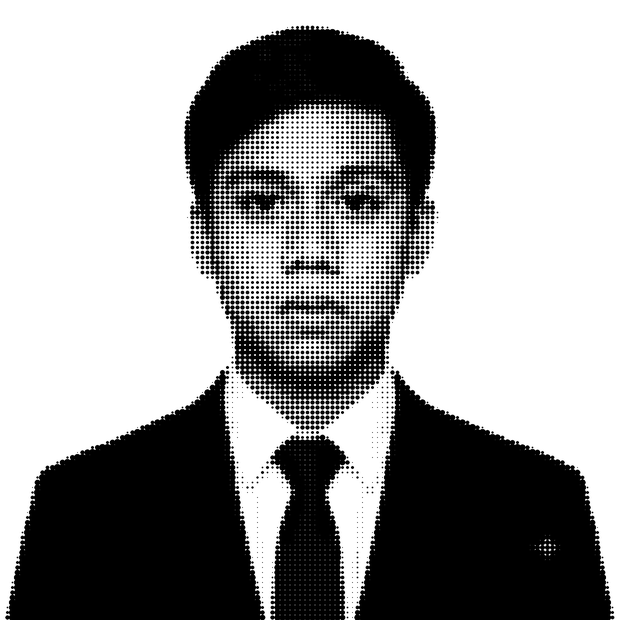
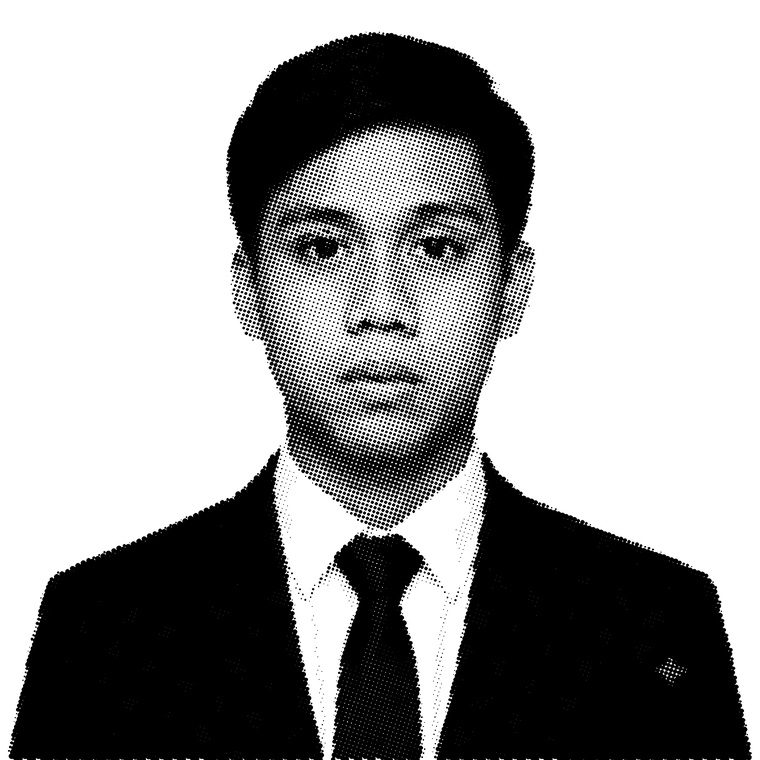
Improve halftone portrait: finer rotated dot screen, cleaner tones

diff --git a/app/index.html b/app/index.html
@@ -132,7 +132,7 @@
         <div class="hero">
           <div class="portrait" aria-label="Jenver Mike Uddon">
             <div class="halftone">
-              <img class="portrait-img" src="/portrait.png" alt="Jenver Mike Uddon" width="620" height="620" />
+              <img class="portrait-img" src="/portrait.png?v=2" alt="Jenver Mike Uddon" width="760" height="760" />
               <span class="eye eye-l" aria-hidden="true"><span class="pupil"></span></span>
               <span class="eye eye-r" aria-hidden="true"><span class="pupil"></span></span>
             </div>

diff --git a/index.html b/index.html
@@ -134,7 +134,7 @@
         <div class="hero">
           <div class="portrait" aria-label="Jenver Mike Uddon">
             <div class="halftone">
-              <img class="portrait-img" src="/portrait.png" alt="Jenver Mike Uddon" width="620" height="620" />
+              <img class="portrait-img" src="/portrait.png?v=2" alt="Jenver Mike Uddon" width="760" height="760" />
               <span class="eye eye-l" aria-hidden="true"><span class="pupil"></span></span>
               <span class="eye eye-r" aria-hidden="true"><span class="pupil"></span></span>
             </div>
